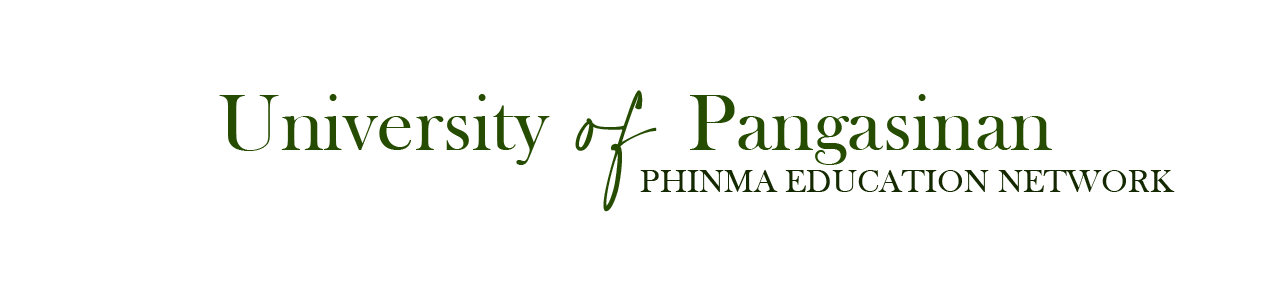
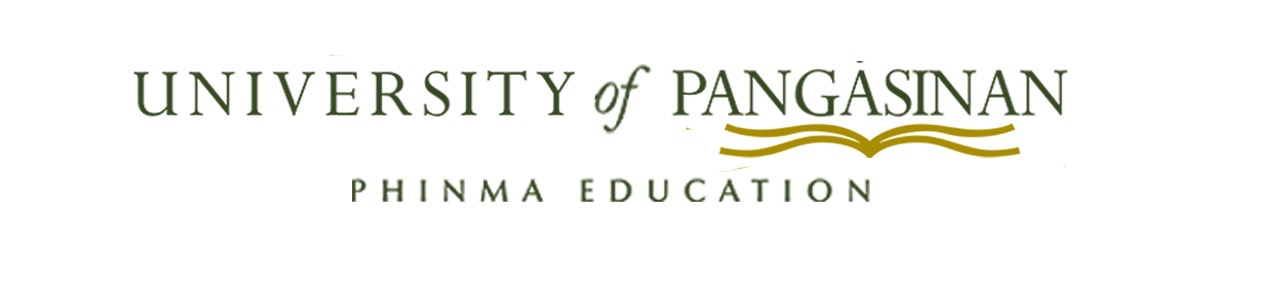
change image

Changed region(s): [[0.0938, 0.21, 0.9375, 0.69]]

diff --git a/src/components/Selections/Categories.jsx b/src/components/Selections/Categories.jsx
@@ -29,9 +29,9 @@ const Categories = () => {
   return (
     <>
       <div className="header-container">
-        <div className="university-header">
+        <div className="university-header my-4">
           <img
-            src="images/PEN logo.jpg"
+            src="images/CITE.png"
             alt="University Logo"
             className="phinma-logo"
           />
@@ -56,11 +56,11 @@ const Categories = () => {
             <form className="login-form">
               <div>
                 {" "}
-                <img
+                {/* <img
                   src="/images/CITE.png"
                   alt="cite logo "
                   style={{ width: 50, height: 50 }}
-                />
+                /> */}
                 <h2>
                   {" "}
                   COLLEGE OF INFORMATION TECHNOLOGY <br />

diff --git a/src/components/Secretary/SecretaryLogin.jsx b/src/components/Secretary/SecretaryLogin.jsx
@@ -59,9 +59,9 @@ const SecretaryLogin = () => {
 
   return (
     <div className="header-container">
-      <div className="university-header">
+      <div className="university-header my-4">
         <img
-          src="/images/PEN logo.jpg"
+          src="/images/CITE.png"
           alt="University Logo"
           className="phinma-logo"
         />
@@ -85,12 +85,6 @@ const SecretaryLogin = () => {
           />
           <form onSubmit={handleSubmit} className="login-form">
             <div>
-              {" "}
-              <img
-                src="/images/CITE.png"
-                alt="cite logo "
-                style={{ width: 50, height: 50 }}
-              />
               <h2>
                 {" "}
                 COLLEGE OF INFORMATION TECHNOLOGY <br />

diff --git a/src/components/TeacherDashBoard/TeacherLogin.jsx b/src/components/TeacherDashBoard/TeacherLogin.jsx
@@ -74,9 +74,9 @@ const TeacherLogin = () => {
 
   return (
     <div className="header-container">
-      <div className="university-header">
+      <div className="university-header my-4">
         <img
-          src="images/PEN logo.jpg"
+          src="images/CITE.png"
           alt="University Logo"
           className="phinma-logo"
         />
@@ -100,12 +100,6 @@ const TeacherLogin = () => {
           />
           <form onSubmit={handleSubmit} className="login-form">
             <div>
-              {" "}
-              <img
-                src="/images/CITE.png"
-                alt="cite logo "
-                style={{ width: 50, height: 50 }}
-              />
               <h2>
                 {" "}
                 COLLEGE OF INFORMATION TECHNOLOGY <br />

diff --git a/src/components/Login/Login.jsx b/src/components/Login/Login.jsx
@@ -74,9 +74,9 @@ const Login = () => {
 
   return (
     <div className="header-container">
-      <div className="university-header">
+      <div className="university-header my-4">
         <img
-          src="images/PEN logo.jpg"
+          src="images/CITE.png"
           alt="University Logo"
           className="phinma-logo"
         />
@@ -100,12 +100,6 @@ const Login = () => {
           />
           <form onSubmit={handleSubmit} className="login-form">
             <div>
-              {" "}
-              <img
-                src="/images/CITE.png"
-                alt="cite logo "
-                style={{ width: 50, height: 50 }}
-              />
               <h2>
                 {" "}
                 COLLEGE OF INFORMATION TECHNOLOGY <br />
